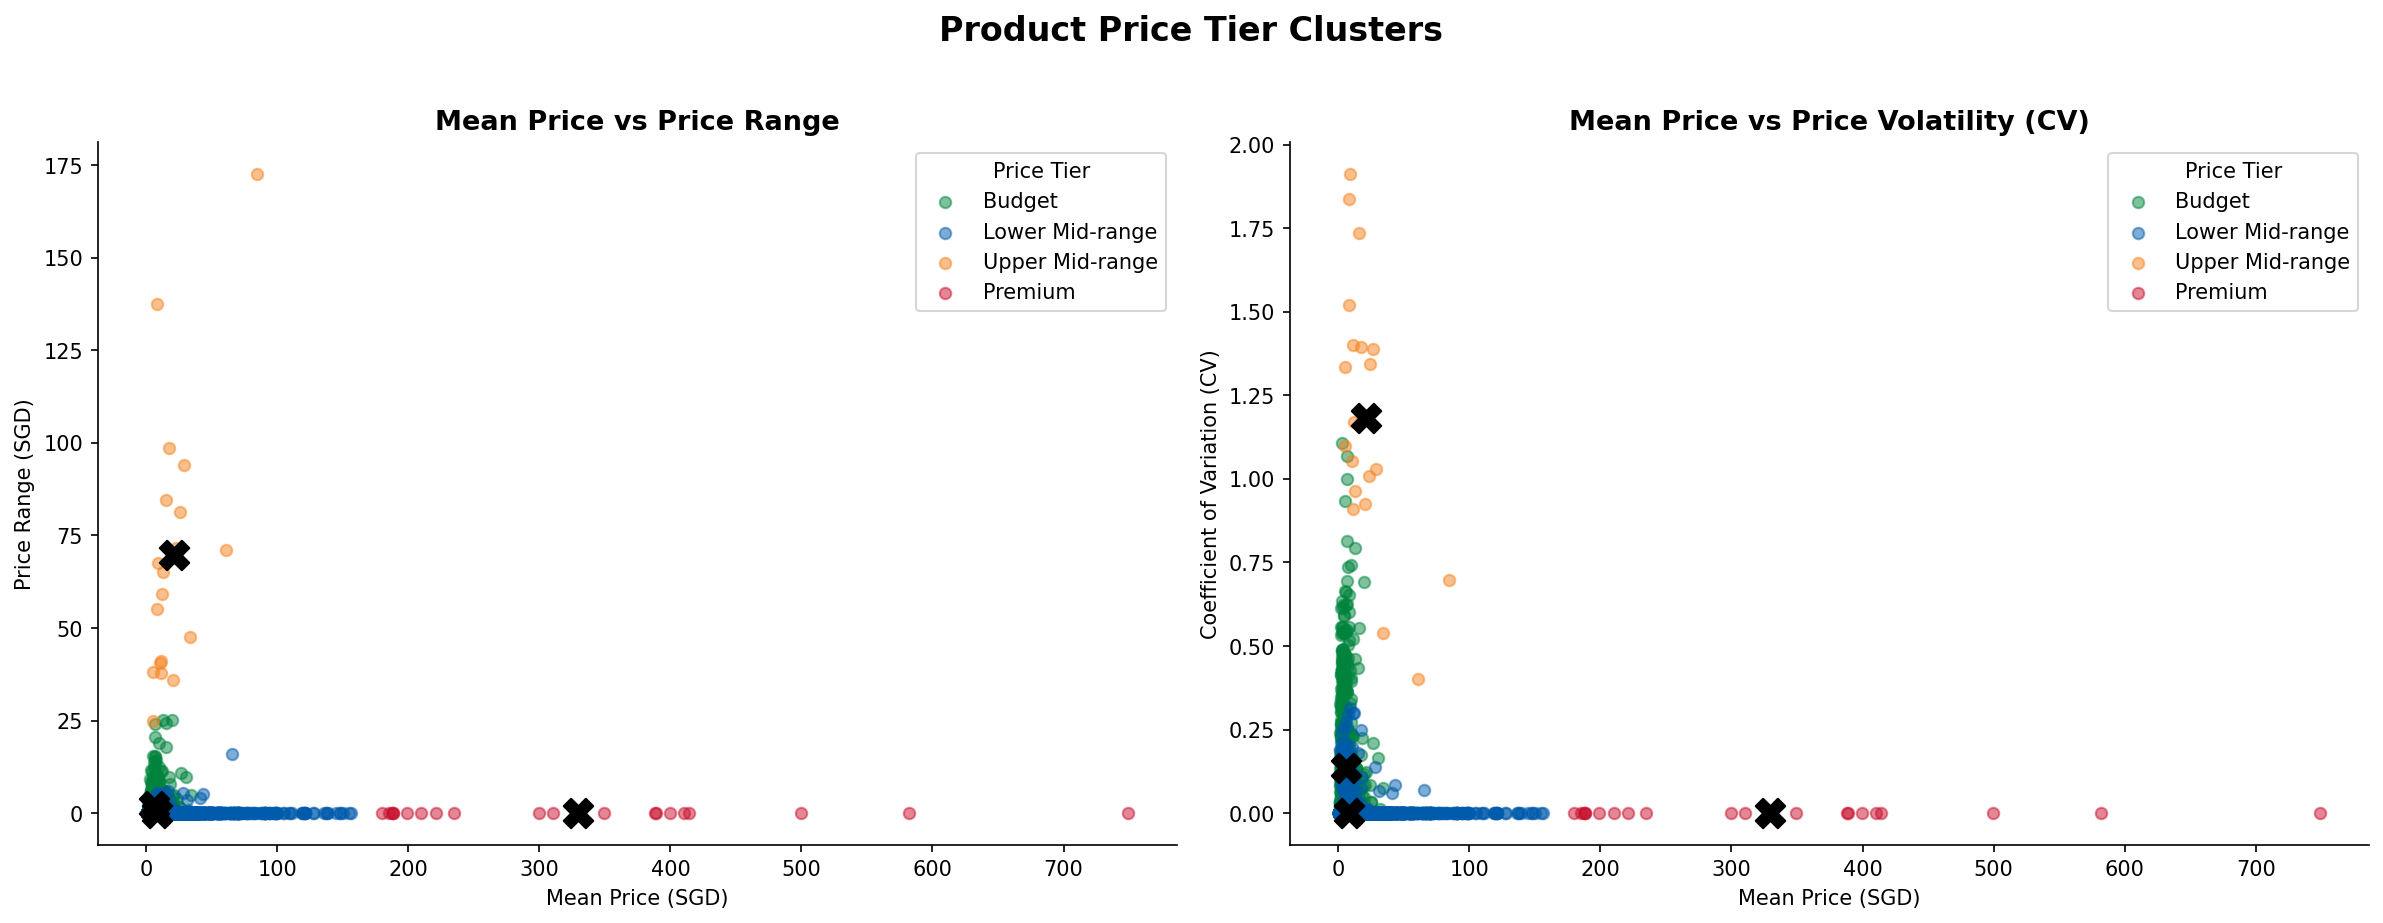
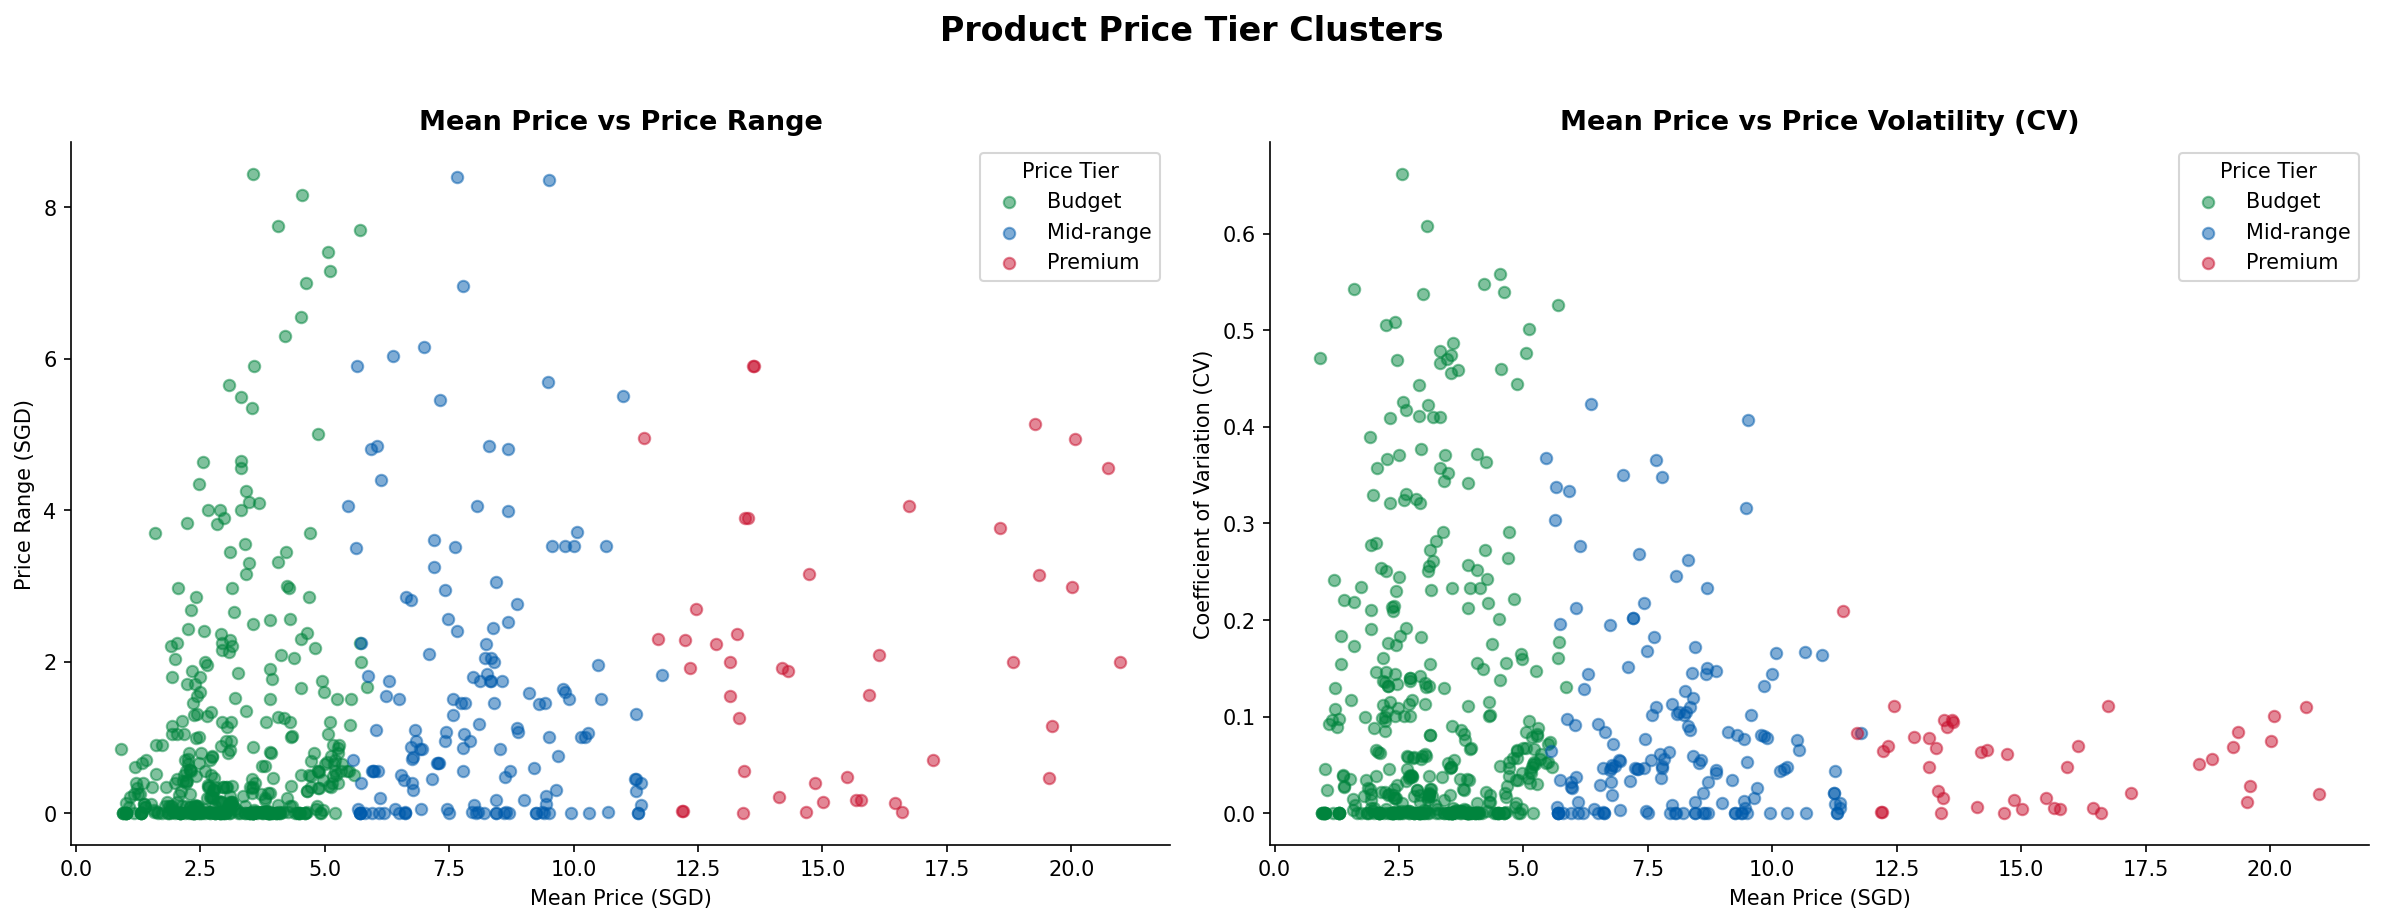
Refine clustering logic, remove outliers and change to k=3

diff --git a/pipeline/ml/product_clustering.py b/pipeline/ml/product_clustering.py
@@ -122,6 +122,33 @@ print(f"  Products after cleaning: {len(prod_df)}")
 print(f"  Categories: {prod_df['unified_category'].nunique()}")
 print(prod_df[["mean_price", "price_range", "cv", "num_stores"]].describe().round(3))
 
+#Outlier removal
+prod_df = prod_df.reset_index(drop=True)
+
+def iqr(series, multiplier=3.0):
+    q1 = series.quantile(0.25)
+    q3 = series.quantile(0.75)
+    return q3 + multiplier * (q3 - q1)
+
+mean_cap = iqr(prod_df["mean_price"])
+range_cap = iqr(prod_df["price_range"])
+cv_cap = iqr(prod_df["cv"])
+
+outliers = (
+    (prod_df["mean_price"] > mean_cap) |
+    (prod_df["price_range"] > range_cap) |
+    (prod_df["cv"] > cv_cap)
+)
+
+print(f"  No. of removed before clustering: {outliers.sum()}")
+prod_df = prod_df[~outliers].reset_index(drop=True)
+print(f"  No. of products after outlier removal: {len(prod_df)}")
+
+prod_df["spread_flag"] = pd.cut(
+    prod_df["price_range"],
+    bins=[-0.01, 1, 10, float("inf")],
+    labels=["Spread: Low", "Spread: Medium", "Spread: High"]
+)
 
 # =============================================================================
 # Step 3: Feature selection and scaling
@@ -133,7 +160,7 @@ print(prod_df[["mean_price", "price_range", "cv", "num_stores"]].describe().roun
 # =============================================================================
 print("\n[3] Scaling features...")
 
-feature_cols = ["mean_price", "price_range", "cv", "num_stores"]
+feature_cols = ["mean_price", "median_price"]
 X = prod_df[feature_cols].copy()
 
 scaler = StandardScaler()
@@ -185,12 +212,12 @@ print("  Saved → data/ml/elbow_silhouette.png")
 
 # =============================================================================
 # Step 5: Train final K-Means model
-# k=4 gives interpretable tiers: Budget / Lower Mid / Upper Mid / Premium
+# k=4 gives interpretable tiers: Budget / Mid-range / Premium
 # Adjust if elbow/silhouette suggest differently
 # =============================================================================
 print("\n[5] Training final K-Means model...")
 
-K_FINAL = 4
+K_FINAL = 3
 kmeans = KMeans(n_clusters=K_FINAL, init="k-means++", random_state=42, n_init=10)
 y_kmeans = kmeans.fit_predict(scaled_X)
 prod_df["cluster"] = y_kmeans
@@ -215,9 +242,8 @@ print(cluster_summary.round(3))
 cluster_order = cluster_summary.index.tolist()
 tier_labels = {
     cluster_order[0]: "Budget",
-    cluster_order[1]: "Lower Mid-range",
-    cluster_order[2]: "Upper Mid-range",
-    cluster_order[3]: "Premium",
+    cluster_order[1]: "Mid-range",
+    cluster_order[2]: "Premium",
 }
 prod_df["price_tier"] = prod_df["cluster"].map(tier_labels)
 
@@ -236,13 +262,9 @@ print("\n[7] Visualising clusters...")
 
 TIER_COLORS = {
     "Budget": "#00843D",
-    "Lower Mid-range": "#005BAC",
-    "Upper Mid-range": "#F5821F",
+    "Mid-range": "#005BAC",
     "Premium": "#C8102E",
 }
-
-unscaled_X = scaler.inverse_transform(scaled_X)
-cluster_centers_unscaled = scaler.inverse_transform(kmeans.cluster_centers_)
 
 fig, axes = plt.subplots(1, 2, figsize=(16, 6))
 
@@ -250,16 +272,11 @@ fig, axes = plt.subplots(1, 2, figsize=(16, 6))
 for tier, color in TIER_COLORS.items():
     mask = prod_df["price_tier"] == tier
     axes[0].scatter(
-        unscaled_X[mask, 0],   # mean_price
-        unscaled_X[mask, 1],   # price_range
+        prod_df.loc[mask, "mean_price"],
+        prod_df.loc[mask, "price_range"],
         s=30, c=color, alpha=0.5, label=tier
     )
 
-for i, center in enumerate(cluster_centers_unscaled):
-    axes[0].scatter(
-        center[0], center[1],
-        s=200, marker="X", color="black", zorder=10
-    )
 
 axes[0].set_title("Mean Price vs Price Range", fontsize=13, fontweight="bold")
 axes[0].set_xlabel("Mean Price (SGD)")
@@ -272,15 +289,9 @@ axes[0].spines["right"].set_visible(False)
 for tier, color in TIER_COLORS.items():
     mask = prod_df["price_tier"] == tier
     axes[1].scatter(
-        unscaled_X[mask, 0],   # mean_price
-        unscaled_X[mask, 2],   # cv
+        prod_df.loc[mask, "mean_price"],
+        prod_df.loc[mask, "cv"],
         s=30, c=color, alpha=0.5, label=tier
-    )
-
-for i, center in enumerate(cluster_centers_unscaled):
-    axes[1].scatter(
-        center[0], center[2],
-        s=200, marker="X", color="black", zorder=10
     )
 
 axes[1].set_title("Mean Price vs Price Volatility (CV)", fontsize=13, fontweight="bold")
@@ -311,7 +322,7 @@ cat_tier = (
 cat_pivot = cat_tier.pivot(index="unified_category", columns="price_tier", values="count").fillna(0)
 cat_pivot_pct = cat_pivot.div(cat_pivot.sum(axis=1), axis=0) * 100
 
-tier_order = ["Budget", "Lower Mid-range", "Upper Mid-range", "Premium"]
+tier_order = ["Budget", "Mid-range", "Premium"]
 cat_pivot_pct = cat_pivot_pct[[t for t in tier_order if t in cat_pivot_pct.columns]]
 
 fig, ax = plt.subplots(figsize=(12, 6))
@@ -369,17 +380,11 @@ def shopping_advice(row):
         else:
             return "Budget product with stable pricing — consistent across stores"
 
-    elif tier == "Lower Mid-range":
+    elif tier == "Mid-range":
         if cv > CV_VOLATILE_THRESHOLD:
-            return "Mid-range product with some price variation — worth checking stores"
+            return "Mid-range product with price variation — worth checking stores"
         else:
             return "Mid-range product with stable pricing — similar across stores"
-
-    elif tier == "Upper Mid-range":
-        if cv > CV_VOLATILE_THRESHOLD:
-            return "Higher-priced product with noticeable price differences — compare stores"
-        else:
-            return "Higher-priced product with stable pricing"
 
     elif tier == "Premium":
         if cv > CV_VOLATILE_THRESHOLD:
@@ -404,6 +409,12 @@ print(
     .to_string(index=False)
 )
 
+#Summary table for spread flag
+print("\nSpread flag distribution by tier:")
+print(
+    pd.crosstab(prod_df["price_tier"], prod_df["spread_flag"], normalize="index")
+    .round(3) * 100
+)
 
 # =============================================================================
 # Step 10: Sync results to Supabase
@@ -434,8 +445,8 @@ for col in ["mean_price", "median_price", "min_price", "max_price",
             "std_price", "price_range", "cv"]:
     cluster_output[col] = cluster_output[col].round(4)
 
-records = cluster_output.to_dict(orient="records")
 cluster_output = cluster_output.drop_duplicates(subset=["canonical_product_id"], keep="first")
+records = cluster_output.to_dict(orient="records")
 
 BATCH_SIZE = 200
 for i in range(0, len(records), BATCH_SIZE):
